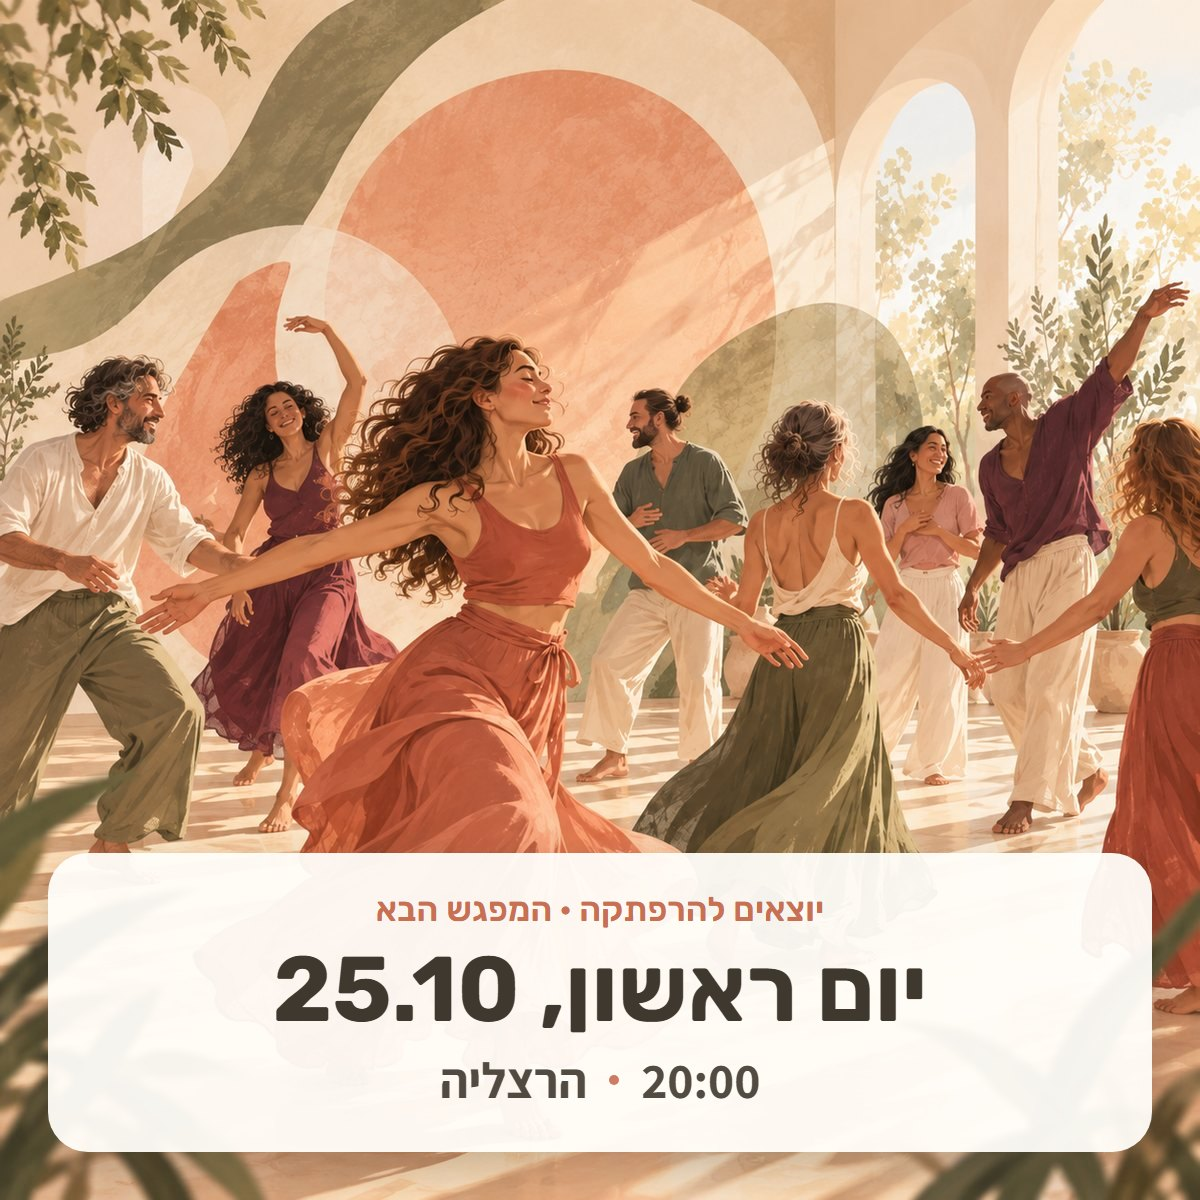
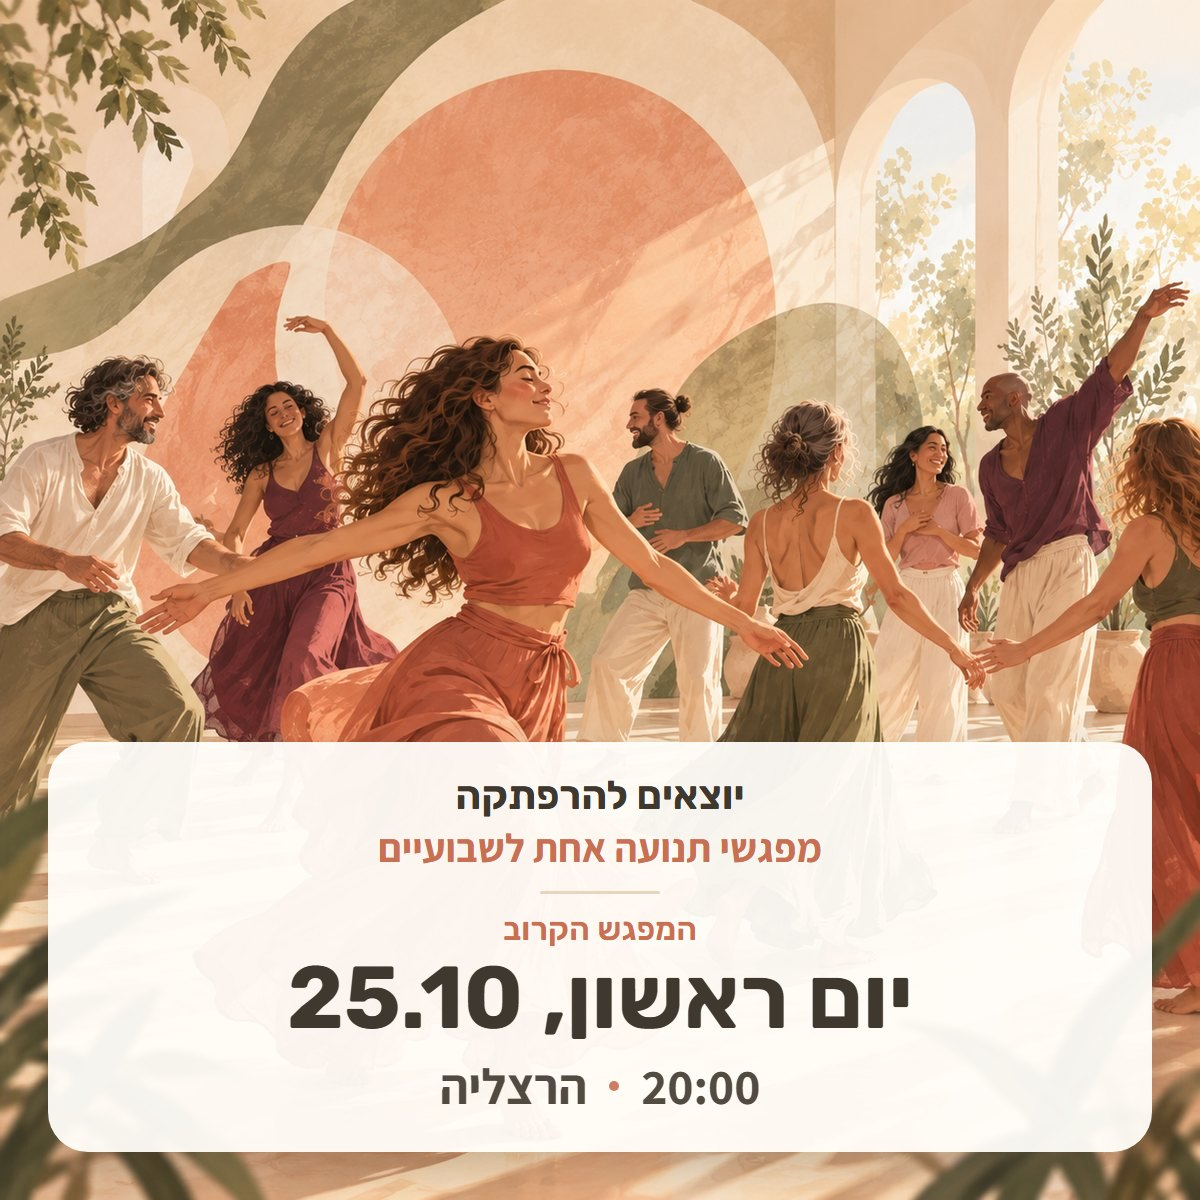
דוגמה: תמונת שיתוף עם 'מפגשי תנועה אחת לשבועיים' והמפגש הקרוב

Changed region(s): [[0.0308, 0.6167, 0.9867, 0.925]]

diff --git a/tools/og/og.html b/tools/og/og.html
@@ -5,15 +5,21 @@
   :root { --terra:#C96F52; --ink:#3F382F; --paper:#FFFDF9; --sand:#E8D5BE; }
   html,body{margin:0;width:1200px;height:1200px;overflow:hidden;font-family:"Assistant",sans-serif}
   .bg{position:absolute;inset:0;background:url("__BG__") center/cover}
-  .card{position:absolute;left:48px;right:48px;bottom:48px;background:rgba(255,253,249,.95);border-radius:40px;padding:36px 48px 40px;text-align:center;box-shadow:0 18px 50px rgba(63,56,47,.28)}
-  .kick{font-family:"Rubik",sans-serif;font-weight:600;font-size:34px;color:var(--terra);letter-spacing:.2px}
-  .when{font-family:"Rubik",sans-serif;font-weight:700;font-size:92px;line-height:1.12;color:var(--ink);margin-top:8px}
+  .card{position:absolute;left:48px;right:48px;bottom:48px;background:rgba(255,253,249,.95);border-radius:40px;padding:30px 48px 34px;text-align:center;box-shadow:0 18px 50px rgba(63,56,47,.28)}
+  .brand{font-family:"Rubik",sans-serif;font-weight:700;font-size:40px;color:var(--ink)}
+  .freq{font-weight:700;font-size:40px;color:var(--terra);margin-top:2px}
+  .line{height:3px;width:120px;background:var(--sand);border-radius:2px;margin:18px auto 16px}
+  .kick{font-family:"Rubik",sans-serif;font-weight:600;font-size:32px;color:var(--terra);letter-spacing:.2px}
+  .when{font-family:"Rubik",sans-serif;font-weight:700;font-size:88px;line-height:1.1;color:var(--ink);margin-top:2px}
   .meta{display:flex;justify-content:center;align-items:center;font-weight:700;font-size:50px;color:var(--ink);margin-top:6px;opacity:.9}
   .meta i{display:inline-block;width:10px;height:10px;border-radius:50%;background:var(--terra);margin:0 22px}
 </style></head><body>
 <div class="bg"></div>
 <div class="card">
-  <div class="kick">יוצאים להרפתקה · המפגש הבא</div>
+  <div class="brand">יוצאים להרפתקה</div>
+  <div class="freq">מפגשי תנועה אחת לשבועיים</div>
+  <div class="line"></div>
+  <div class="kick">המפגש הקרוב</div>
   <div class="when">__WHEN__</div>
   <div class="meta"><span>__TIME__</span><i></i><span>__PLACE__</span></div>
 </div></body></html>
